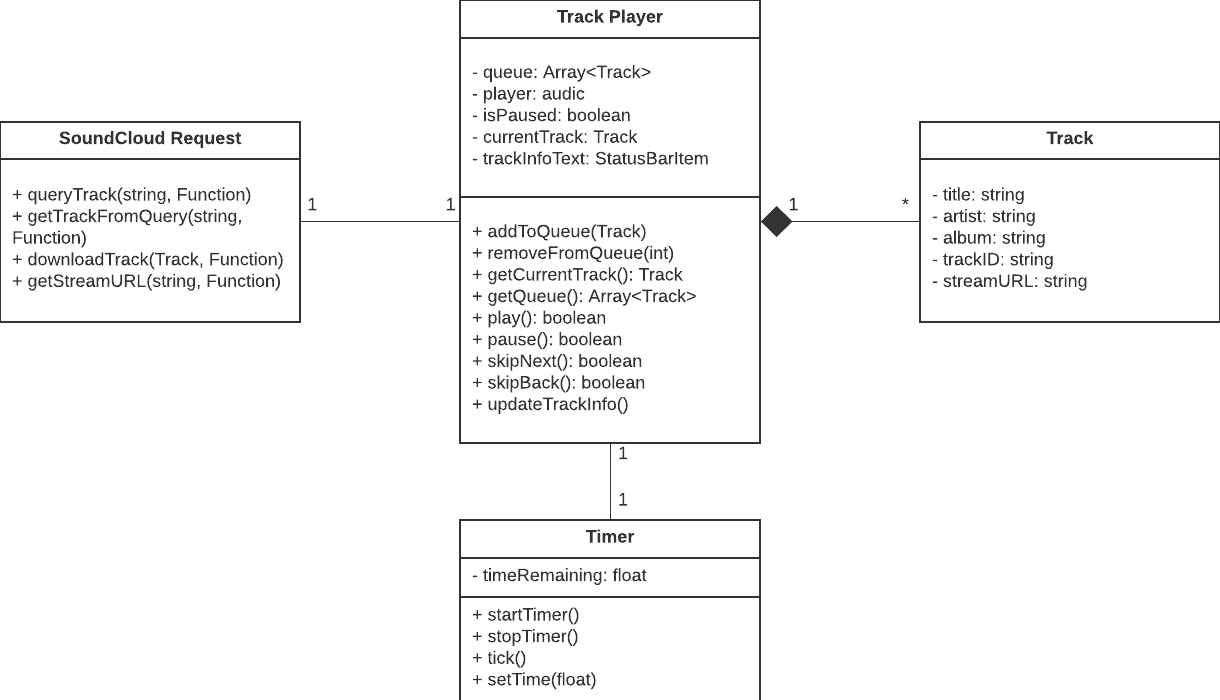
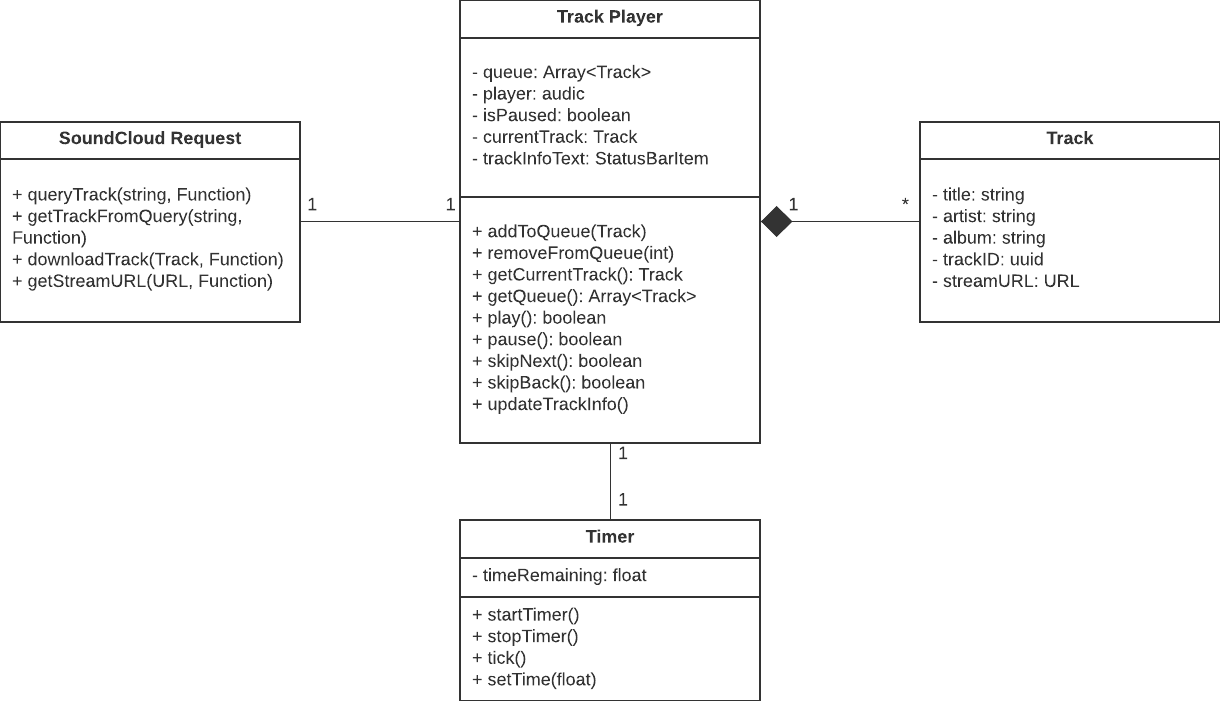
Updated README and a figure

diff --git a/src/trackplayer.ts b/src/trackplayer.ts
@@ -2,13 +2,14 @@ import {SoundCloudRequest} from "./soundcloud_request";
 import { newStatusBarItem } from "./extension";
 const audic = require("audic");
 import * as vscode from 'vscode';
+import { URL } from "node:url";
 
 export class Track{
     public title: string;
     public artist: string;
     public album: string;
-    public trackID: string;
-    public streamURL: string;
+    public trackID: string;  // change to uuid
+    public streamURL: string;  // change to URL
     constructor(title?: string, artist?: string, album?: string, trackID?: string, streamURL?: string){
         title ? this.title = title : this.title = "";
         artist ? this.artist = artist : this.artist = "";

diff --git a/figures/generate_table.py b/figures/generate_table.py
@@ -59,7 +59,7 @@ print("2. Manually select a new build")
 method = input("Choose a build method (1 or 2): ")
 
 if method == "1":
-    url = 'https://api.travis-ci.com/v3/job/495111588/log.txt'
+    url = 'https://api.travis-ci.com/v3/job/495286972/log.txt'
 
 elif method == "2":
     print("\n\nOpening the Travis CI page for SoundCloud for VS Code...")
@@ -70,7 +70,7 @@ elif method == "2":
     print("1. Under the most recent build, click on XX.1 or XX.2")
     print("2. Under the job log, click on \"Raw log\"")
     print("3. Copy this URL.")
-    print("It should look something like \"https://api.travis-ci.com/v3/job/491911244/log.txt\"")
+    print("It should look something like \"https://api.travis-ci.com/v3/job/495286972/log.txt\"")
     url = input("URL: ")
 else:
     print("Invalid input.")

diff --git a/README.md b/README.md
@@ -2,6 +2,8 @@
 
 ## Features
 
+### Current Features
+
 <details><summary>Search for a track</summary>
 
 ![](https://i.imgur.com/eyZbYyW.gif)
@@ -17,7 +19,7 @@
 
 <br>
 
-Coming soon
+### Features Coming Soon
  - Display the time left in the current track
  - View tracks in the queue
  - Reorder the queue
@@ -33,12 +35,14 @@ Coming soon
 5. Open a terminal window in VS Code and enter the following command (View -> Terminal; Ctrl + `)
 6. `npm install`
 
-## Build and Run
+## Build
+
+### Build and Run
 
 1. Open the repository in VS Code (File -> Open Folder...; Ctrl + K, Ctrl + O)
 2. Run the extension in VS Code (Run -> Start Debugging; F5)
 
-## Build and Run Tests
+### Build and Run Tests
 
 1. Click on the Run and Debug button on the left side of the VS Code window (Ctrl + Shift + D)
 2. At the top left of the VS Code window, next to the green play button select "Extension Tests"
